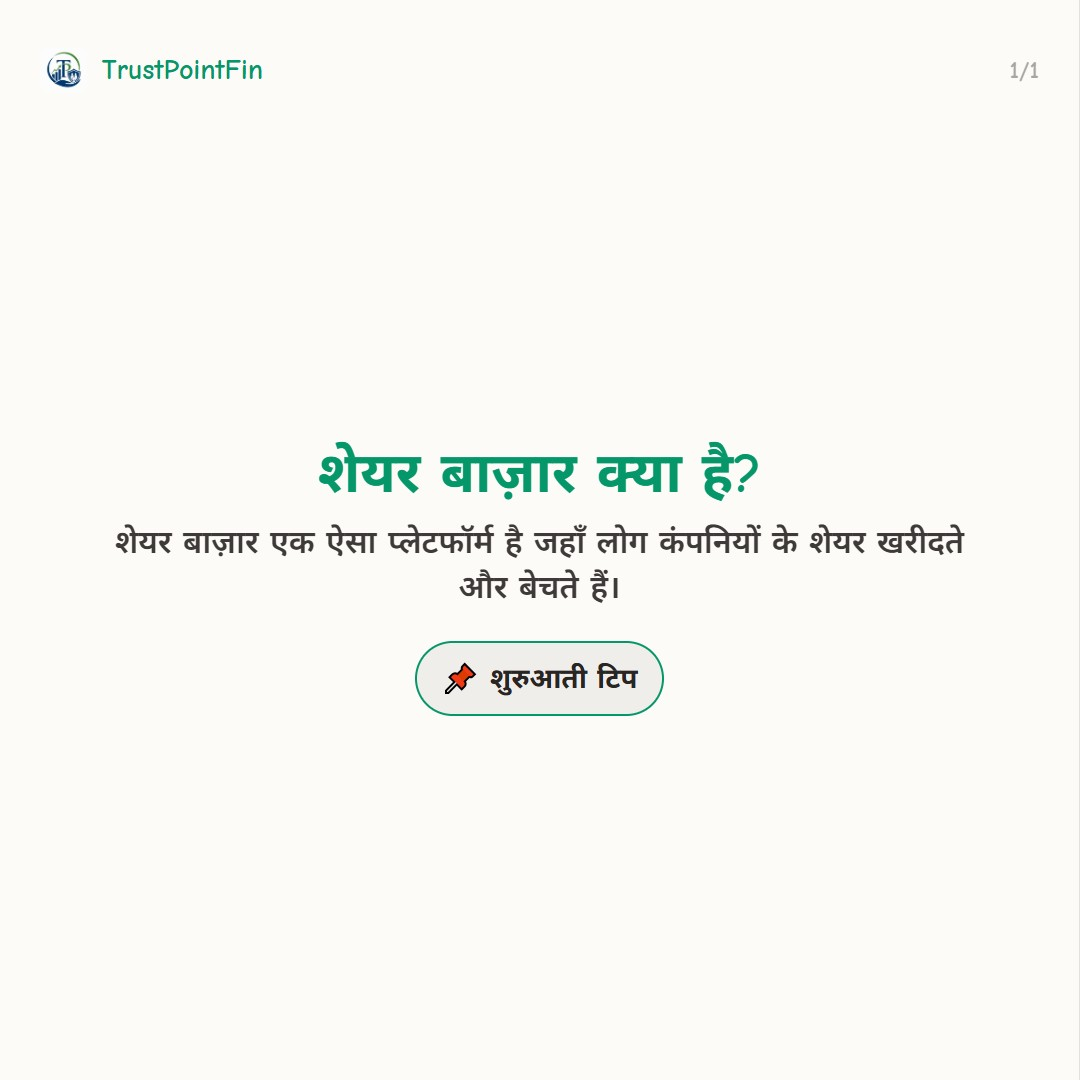
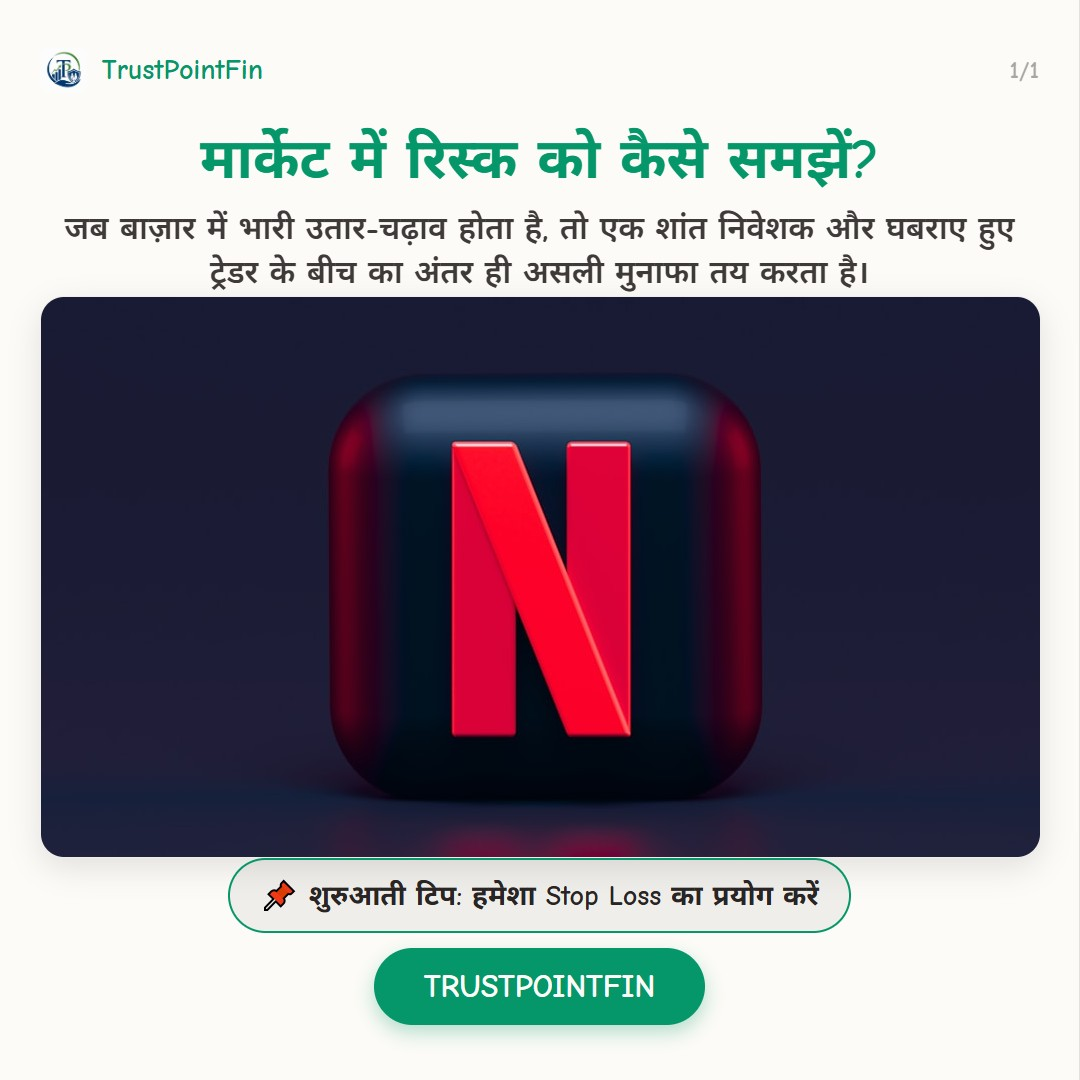
feat: upgrade AI visual prompt to NotebookLM style and strict layout rendering

diff --git a/services/ai/renderer.js b/services/ai/renderer.js
@@ -72,26 +72,26 @@ async function renderCarousel(jsonData, imagesMap, outputDir) {
         
         .slide-content { flex: 1; display: flex; flex-direction: column; height: 880px; width: 100%; }
         
-        .illustration-layout-v5 { display: flex; flex-direction: column; width: 100%; height: 100%; justify-content: center; gap: 30px; }
+        .illustration-layout-v5 { display: flex; flex-direction: column; width: 100%; height: 100%; justify-content: space-between; padding-bottom: 20px; }
         
-        .text-top { flex: 0 0 auto; display: flex; flex-direction: column; justify-content: center; text-align: center; }
+        .text-top { flex: 0 0 auto; display: flex; flex-direction: column; justify-content: flex-start; text-align: center; margin-top: 10px; }
         
         .visual-full-width { 
             width: 100%;
-            height: auto;
-            max-height: 600px;
+            height: 560px; /* ~52% of the 1080px canvas */
             border-radius: 24px; 
-            object-fit: contain;
+            object-fit: cover; /* Eliminates all horizontal whitespace */
             box-shadow: 0 10px 30px rgba(0,0,0,0.1);
+            border: 1px solid rgba(0,0,0,0.05);
         }
         
-        .text-bottom { flex: 0 0 auto; display: flex; flex-direction: column; justify-content: center; align-items: center; }
+        .text-bottom { flex: 0 0 auto; display: flex; flex-direction: column; justify-content: flex-end; align-items: center; margin-bottom: 10px; }
         
-        .headline { font-size: 56px; font-weight: 900; line-height: 1.1; margin: 0 0 15px 0; color: var(--accent); }
-        .core-explanation { font-size: 32px; line-height: 1.4; font-weight: 600; opacity: 0.9; margin: 0; max-width: 900px; margin: 0 auto; }
+        .headline { font-size: 56px; font-weight: 900; line-height: 1.1; margin: 0 0 15px 0; color: var(--accent); text-wrap: balance; }
+        .core-explanation { font-size: 32px; line-height: 1.4; font-weight: 600; opacity: 0.9; margin: 0 auto; max-width: 950px; text-wrap: pretty; }
         
-        .annotation-box { background: rgba(0,0,0,0.05); padding: 15px 25px; border-radius: 100px; font-size: 28px; font-weight: 700; color: var(--text); border: 2px solid var(--accent); display: inline-block; }
-        .slide-cta { background: var(--accent); color: var(--bg); font-size: 32px; font-weight: 900; padding: 20px 40px; border-radius: 100px; text-align: center; text-transform: uppercase; margin-top: 10px; }
+        .annotation-box { background: rgba(0,0,0,0.05); padding: 15px 30px; border-radius: 100px; font-size: 28px; font-weight: 700; color: var(--text); border: 2px solid var(--accent); display: inline-block; }
+        .slide-cta { background: var(--accent); color: var(--bg); font-size: 32px; font-weight: 900; padding: 20px 50px; border-radius: 100px; text-align: center; text-transform: uppercase; margin-top: 15px; box-shadow: 0 8px 20px rgba(5, 150, 105, 0.3); }
     </style>
 </head>
 <body>${slidesHTML}</body>
@@ -106,15 +106,32 @@ async function renderCarousel(jsonData, imagesMap, outputDir) {
     // Ensure fonts are fully loaded before rendering
     await page.evaluateHandle('document.fonts.ready');
 
-    // Pre-publish validation for missing glyphs (tofu boxes)
-    const hasTofu = await page.evaluate(() => {
+    // Pre-publish validation for missing glyphs (tofu boxes) and sparse layouts
+    const validationErrors = await page.evaluate(() => {
+        const errors = [];
         const text = document.body.innerText;
-        return text.includes('\uFFFD') || text.includes('\u25A1') || text.includes('\u25AF');
+        
+        if (text.includes('\uFFFD') || text.includes('\u25A1') || text.includes('\u25AF')) {
+            errors.push("Missing-glyph/tofu characters detected");
+        }
+        
+        const images = document.querySelectorAll('.visual-full-width');
+        images.forEach((img, i) => {
+            if (img.clientWidth < 900) errors.push(`Image ${i+1} width is too small (${img.clientWidth}px), violating the 90-95% canvas rule`);
+            if (img.clientHeight < 400) errors.push(`Image ${i+1} height is too small (${img.clientHeight}px), violating the 50-60% canvas rule`);
+        });
+
+        const headlines = document.querySelectorAll('.headline');
+        headlines.forEach((hl, i) => {
+            if (!hl.innerText.trim()) errors.push(`Slide ${i+1} has an empty headline, resulting in a sparse layout`);
+        });
+
+        return errors;
     });
 
-    if (hasTofu) {
+    if (validationErrors.length > 0) {
         await browser.close();
-        throw new Error("PRE-PUBLISH VALIDATION FAILED: Missing-glyph/tofu characters detected in the rendering. Fonts may not be loading correctly.");
+        throw new Error("PRE-PUBLISH VALIDATION FAILED:\n" + validationErrors.join("\n"));
     }
 
     for (let i = 0; i < slides.length; i++) {

diff --git a/slides/temp_render.html b/slides/temp_render.html
@@ -20,26 +20,26 @@
         
         .slide-content { flex: 1; display: flex; flex-direction: column; height: 880px; width: 100%; }
         
-        .illustration-layout-v5 { display: flex; flex-direction: column; width: 100%; height: 100%; justify-content: center; gap: 30px; }
+        .illustration-layout-v5 { display: flex; flex-direction: column; width: 100%; height: 100%; justify-content: space-between; padding-bottom: 20px; }
         
-        .text-top { flex: 0 0 auto; display: flex; flex-direction: column; justify-content: center; text-align: center; }
+        .text-top { flex: 0 0 auto; display: flex; flex-direction: column; justify-content: flex-start; text-align: center; margin-top: 10px; }
         
         .visual-full-width { 
             width: 100%;
-            height: auto;
-            max-height: 600px;
+            height: 560px; /* ~52% of the 1080px canvas */
             border-radius: 24px; 
-            object-fit: contain;
+            object-fit: cover; /* Eliminates all horizontal whitespace */
             box-shadow: 0 10px 30px rgba(0,0,0,0.1);
+            border: 1px solid rgba(0,0,0,0.05);
         }
         
-        .text-bottom { flex: 0 0 auto; display: flex; flex-direction: column; justify-content: center; align-items: center; }
+        .text-bottom { flex: 0 0 auto; display: flex; flex-direction: column; justify-content: flex-end; align-items: center; margin-bottom: 10px; }
         
-        .headline { font-size: 56px; font-weight: 900; line-height: 1.1; margin: 0 0 15px 0; color: var(--accent); }
-        .core-explanation { font-size: 32px; line-height: 1.4; font-weight: 600; opacity: 0.9; margin: 0; max-width: 900px; margin: 0 auto; }
+        .headline { font-size: 56px; font-weight: 900; line-height: 1.1; margin: 0 0 15px 0; color: var(--accent); text-wrap: balance; }
+        .core-explanation { font-size: 32px; line-height: 1.4; font-weight: 600; opacity: 0.9; margin: 0 auto; max-width: 950px; text-wrap: pretty; }
         
-        .annotation-box { background: rgba(0,0,0,0.05); padding: 15px 25px; border-radius: 100px; font-size: 28px; font-weight: 700; color: var(--text); border: 2px solid var(--accent); display: inline-block; }
-        .slide-cta { background: var(--accent); color: var(--bg); font-size: 32px; font-weight: 900; padding: 20px 40px; border-radius: 100px; text-align: center; text-transform: uppercase; margin-top: 10px; }
+        .annotation-box { background: rgba(0,0,0,0.05); padding: 15px 30px; border-radius: 100px; font-size: 28px; font-weight: 700; color: var(--text); border: 2px solid var(--accent); display: inline-block; }
+        .slide-cta { background: var(--accent); color: var(--bg); font-size: 32px; font-weight: 900; padding: 20px 50px; border-radius: 100px; text-align: center; text-transform: uppercase; margin-top: 15px; box-shadow: 0 8px 20px rgba(5, 150, 105, 0.3); }
     </style>
 </head>
 <body>
@@ -54,15 +54,15 @@
             <div class="slide-content">
                 <div class="illustration-layout-v5">
                     <div class="text-top">
-                        <h1 class="headline">शेयर बाज़ार क्या है?</h1>
-                        <p class="core-explanation">शेयर बाज़ार एक ऐसा प्लेटफॉर्म है जहाँ लोग कंपनियों के शेयर खरीदते और बेचते हैं।</p>
+                        <h1 class="headline">मार्केट में रिस्क को कैसे समझें?</h1>
+                        <p class="core-explanation">जब बाज़ार में भारी उतार-चढ़ाव होता है, तो एक शांत निवेशक और घबराए हुए ट्रेडर के बीच का अंतर ही असली मुनाफा तय करता है।</p>
                     </div>
                     
-                    
+                    <img class="visual-full-width" src="file:///C:/Users/HP/.gemini/antigravity/scratch/trustpointfin/slides/slide_1_illustration.jpg" />
                     
                     <div class="text-bottom">
-                        <div class="annotation-box">📌 शुरुआती टिप</div>
-                        
+                        <div class="annotation-box">📌 शुरुआती टिप: हमेशा Stop Loss का प्रयोग करें</div>
+                        <div class="slide-cta">TRUSTPOINTFIN</div>
                     </div>
                 </div>
             </div>

diff --git a/services/ai/content-generator.js b/services/ai/content-generator.js
@@ -7,28 +7,42 @@ const model = genAI.getGenerativeModel({ model: modelName });
 
 async function generateSocialContent(topic) {
     const prompt = `You are the Chief Financial Educator and Art Director for TrustPointFin.
-OBJECTIVE: Create an illustrated financial mini-lesson. The visual must occupy 65% of the space.
-TOPIC: ${topic}
+OBJECTIVE: Create an illustrated financial mini-lesson using a rich, NotebookLM-style educational visual system.
 
-Use visual metaphors (e.g. tree for compounding, snail/rocket for FD/Stocks, multiple baskets for diversification).
+TARGET QUALITY:
+- Rich illustrated storytelling with actual characters, scenes, objects, and visual metaphors.
+- Educational diagrams, relationships, and charts/graphs when the topic benefits from them.
+- Format must adapt to the topic. Select from:
+  * STORY (characters + scene + speech bubbles logic)
+  * COMPARISON (two visual worlds + comparison structure)
+  * CALCULATION (illustrated objects + formula + worked example)
+  * PROCESS (step-by-step visual journey)
+  * RISK (scenario/decision illustration)
+  * MARKET_CONCEPT (chart + illustrated explanation)
+  * MYTH_VS_REALITY (contrasting scenes)
+  * PSYCHOLOGY (character conversation/internal conflict)
+  * TIMELINE (visual progression)
+  * BEGINNER_CONCEPT (everyday-life analogy)
+- DO NOT use the same generic format for every slide.
+
+TOPIC: ${topic}
 
 OUTPUT RAW JSON:
 {
   "topic": "${topic}",
   "teaching_objective": "...",
-  "format": "STORY|METAPHOR|COMPARISON|DIAGRAM",
-  "visual_style": "Hand-drawn educational|Modern editorial",
+  "format": "STORY|COMPARISON|CALCULATION|PROCESS|RISK|MARKET_CONCEPT|MYTH_VS_REALITY|PSYCHOLOGY|TIMELINE|BEGINNER_CONCEPT",
   "slides": [
     {
       "slide_number": 1,
       "purpose": "context",
-      "headline": "Main text",
-      "core_explanation": "Supporting text",
+      "headline": "Main text (Hindi/Hinglish)",
+      "core_explanation": "Supporting text (Mobile-readable, Hindi/Hinglish)",
       "visual_spec": {
-          "visual_concept": "Describe the core visual idea, distributed from left to right",
-          "image_generation_prompt": "Prompt for AI image generator. MUST INCLUDE: Use a full-width illustrated composition with substantial vertical depth (3:2 or 4:3 landscape ratio). Do NOT generate a thin horizontal banner. The illustration must occupy 90-95% of the width and ~60% of the height, containing rich vertical storytelling (foreground, characters, background). Distribute elements across LEFT, CENTER, and RIGHT. Maintain NotebookLM-style richness. Use light, soft, airy pastel colors. CRITICAL: Do NOT generate ANY text, labels, financial numbers, percentages, or guaranteed returns inside the image. The image must be completely text-free. "
+          "visual_concept": "Describe the core visual idea (e.g. 'Two contrasting worlds: a calm investor in a storm vs a panicked trader')",
+          "image_generation_prompt": "Prompt for DALL-E 3. MUST INCLUDE: 'NotebookLM-style educational aesthetic. Rich illustrated storytelling with characters, scenes, and visual metaphors. Full-width composition with substantial vertical depth (4:3 ratio). Fill the entire canvas space. Light, soft, airy pastel colors. CRITICAL: NO TEXT, NO LABELS, NO NUMBERS, NO CHARACTERS OF ANY ALPHABET inside the image itself. The image must be completely text-free.'"
       },
-      "annotation": "A small tip",
+      "annotation": "A small tip or arrow annotation",
       "cta": null
     }
   ],

diff --git a/services/ai/image-generator.js b/services/ai/image-generator.js
@@ -59,13 +59,10 @@ class ImageGenerator {
             // Implementation for Google Imagen API
             throw new Error("Imagen provider not configured with API keys yet.");
         } else {
-            // MOCK PROVIDER (For CI/CD and testing until API keys are added)
-            // It just creates a dummy image file or uses an existing one.
-            console.log(`[Image Generator] MOCK provider active. Outputting placeholder/cache.`);
-            // In a real mock, we would copy a blank image. 
-            // For this test, we assume the agent has pre-populated the cache.
+            // MOCK PROVIDER (For CI/CD and testing)
+            console.log(`[Image Generator] MOCK provider active. Outputting placeholder.`);
             if (!fs.existsSync(cachePath)) {
-                 fs.writeFileSync(cachePath, "MOCK IMAGE DATA"); // Dummy file
+                 fs.copyFileSync(path.join(process.cwd(), 'mock_image.jpg'), cachePath);
             }
             return cachePath;
         }
